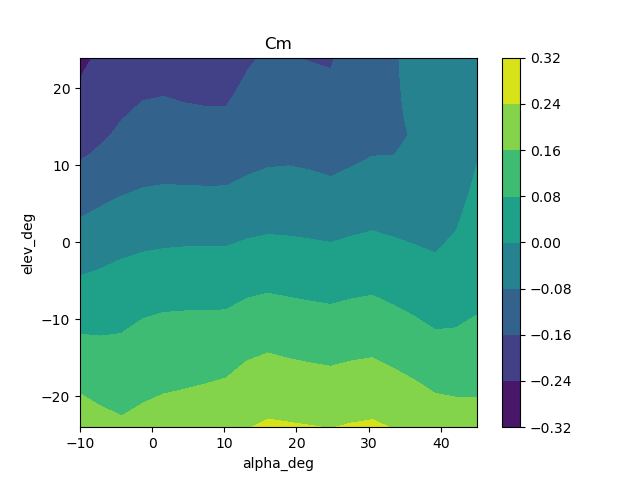
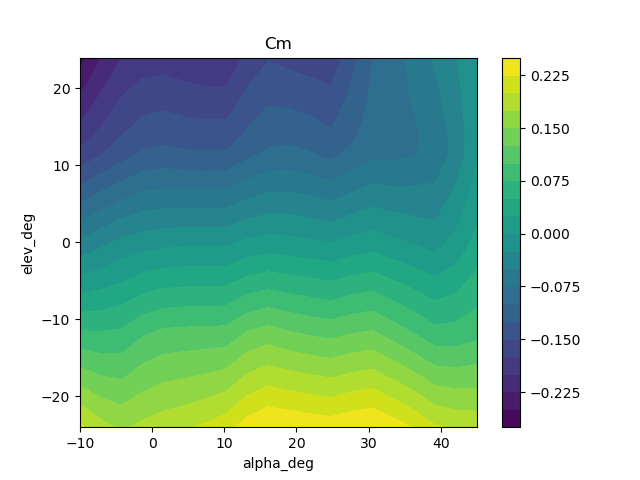
Add more tests.

diff --git a/test_f16.py b/test_f16.py
@@ -13,7 +13,7 @@ def plot_table2D(title, path, x_grid, y_grid, x_label, y_label, f_table):
         for j, y in enumerate(y_grid):
             Z[i, j] = f_table(x, y)
     plt.figure()
-    plt.contourf(X, Y, Z.T)
+    plt.contourf(X, Y, Z.T, levels=20)
     plt.colorbar()
     plt.xlabel(x_label)
     plt.ylabel(y_label)
@@ -75,6 +75,16 @@ def test_tables():
     assert tables['Cnr'](-10) == -0.380
     assert tables['Cnp'](45) == 0.150
 
+    names = ['CXq', 'CYr', 'CYp', 'CZq', 'Clr', 'Clp', 'Cmq', 'Cnr', 'Cnp']
+    for name in names:
+        plt.figure()
+        data = [tables[name](alpha) for alpha in alpha_deg_grid]
+        plt.plot(alpha_deg_grid, data)
+        plt.xlabel('alpha, deg')
+        plt.ylabel(name)
+        plt.savefig(path.joinpath('damp_{:s}.png'.format(name)))
+        plt.close()
+
 
 def trim_cost(dx: f16.StateDot):
     return dx.VT_dot**2 + \
@@ -99,36 +109,43 @@ def test_jacobian():
 
 
 def test_trim1():
+    # pg 197
     p = f16.Parameters()
     tables = f16.build_tables()
     x = f16.State(VT=502, alpha=0.03691, theta=0.03691)
     u = f16.Control(thtl=0.1385, elv_deg=-0.7588)
     x.power = tables['tgear'](u.thtl)
     dx = f16.dynamics(x, u, p, tables)
-    assert trim_cost(dx) < 1e-5
+    print(dx)
+    assert trim_cost(dx) < 1e-3
 
 
 def test_trim2():
+    # pg 197
     p = f16.Parameters(xcg=0.3)
     x = f16.State(VT=502, alpha=0.03936, theta=0.03936)
     u = f16.Control(thtl=0.1485, elv_deg=-1.931)
     tables = f16.build_tables()
     x.power = tables['tgear'](u.thtl)
     dx = f16.dynamics(x, u, p, tables)
-    assert trim_cost(dx) < 1e-5
+    print(dx)
+    assert trim_cost(dx) < 1e-3
 
 
 def test_trim3():
+    # pg 197
     p = f16.Parameters(xcg=0.38)
     x = f16.State(VT=502, alpha=0.03544, theta=0.03544)
     u = f16.Control(thtl=0.1325, elv_deg=-0.0559)
     tables = f16.build_tables()
     x.power = tables['tgear'](u.thtl)
     dx = f16.dynamics(x, u, p, tables)
-    assert trim_cost(dx) < 1e-5
+    print(dx)
+    assert trim_cost(dx) < 1e-3
 
 
 def test_trim4():
+    # pg 197
     p = f16.Parameters(xcg=0.3)
     psi_dot = 0.3
     x = f16.State(VT=502, alpha=0.2485, phi=1.367, theta=0.05185,
@@ -137,10 +154,12 @@ def test_trim4():
     tables = f16.build_tables()
     x.power = tables['tgear'](u.thtl)
     dx = f16.dynamics(x, u, p, tables)
-    assert trim_cost(dx) < 1e-5
+    print(dx)
+    assert trim_cost(dx) < 1e-3
 
 
 def test_trim5():
+    # pg 197
     p = f16.Parameters(xcg=-0.3)
     theta_dot = 0.3
     x = f16.State(VT=502, alpha=0.3006, theta=0.3006, Q=0.3)
@@ -148,10 +167,27 @@ def test_trim5():
     tables = f16.build_tables()
     x.power = tables['tgear'](u.thtl)
     dx = f16.dynamics(x, u, p, tables)
-    assert trim_cost(dx) < 1e-5
+    print(dx)
+    assert trim_cost(dx) < 1e-3
+
+
+def test_trim6():
+    # pg 195
+    p = f16.Parameters()
+    x = f16.State(VT=502, alpha=2.392628e-1, beta=5.061803e-4,
+                  phi=1.366289, theta=5.000808e-2, psi=2.340769e-1,
+                  P=-1.499617e-2, Q=2.933811e-1, R=6.084932e-2,
+                  p_N=0, p_E=0, alt=0, power=6.412363e1)
+    u = f16.Control(thtl=8.349601e-1, ail_deg=-1.481766,
+                    elv_deg=9.553108e-2, rdr_deg=-4.118124e-1)
+    tables = f16.build_tables()
+    dx = f16.dynamics(x, u, p, tables)
+    print(dx)
+    assert trim_cost(dx) < 1e-3
 
 
 def test_table_3_5_2():
+    #pg 187
     p = f16.Parameters(xcg=0.4)
     x = f16.State(
         VT=500, alpha=0.5, beta=-0.2,
@@ -168,4 +204,7 @@ def test_table_3_5_2():
         12.62679, 0.9649671, 0.5809759,
         342.4439, -266.7707, 248.1241, -58.68999
     ])
-    assert np.allclose(dx_compute, dx_check)
+    print('\nexpected:\n\t', np.round(dx_check))
+    print('\nactual:\n\t', np.round(dx_compute))
+    print('\nerror:\n\t', np.round(dx_check - dx_compute))
+    assert np.allclose(dx_compute, dx_check, 1e-3)

diff --git a/f16.py b/f16.py
@@ -260,7 +260,7 @@ def build_tables():
         R0 = 2.377e-3
         Tfac = 1 - 0.703e-5*alt
         T = ca.if_else(alt > 35000, 390, 519*Tfac)
-        rho = R0*(Tfac**4.14)
+        rho = R0*(Tfac**(4.14))
         tables['amach'] = ca.Function('amach', [vt, alt], [vt/(ca.sqrt(1.4*1716.3*T))], ['vt', 'alt'], ['amach'])
         tables['qbar'] = ca.Function('qbar', [vt, alt], [0.5*rho*vt**2], ['vt', 'alt'], ['qbar'])
         tables['ps'] = ca.Function('qbar', [alt], [1715*rho*T], ['alt'], ['amach'])
